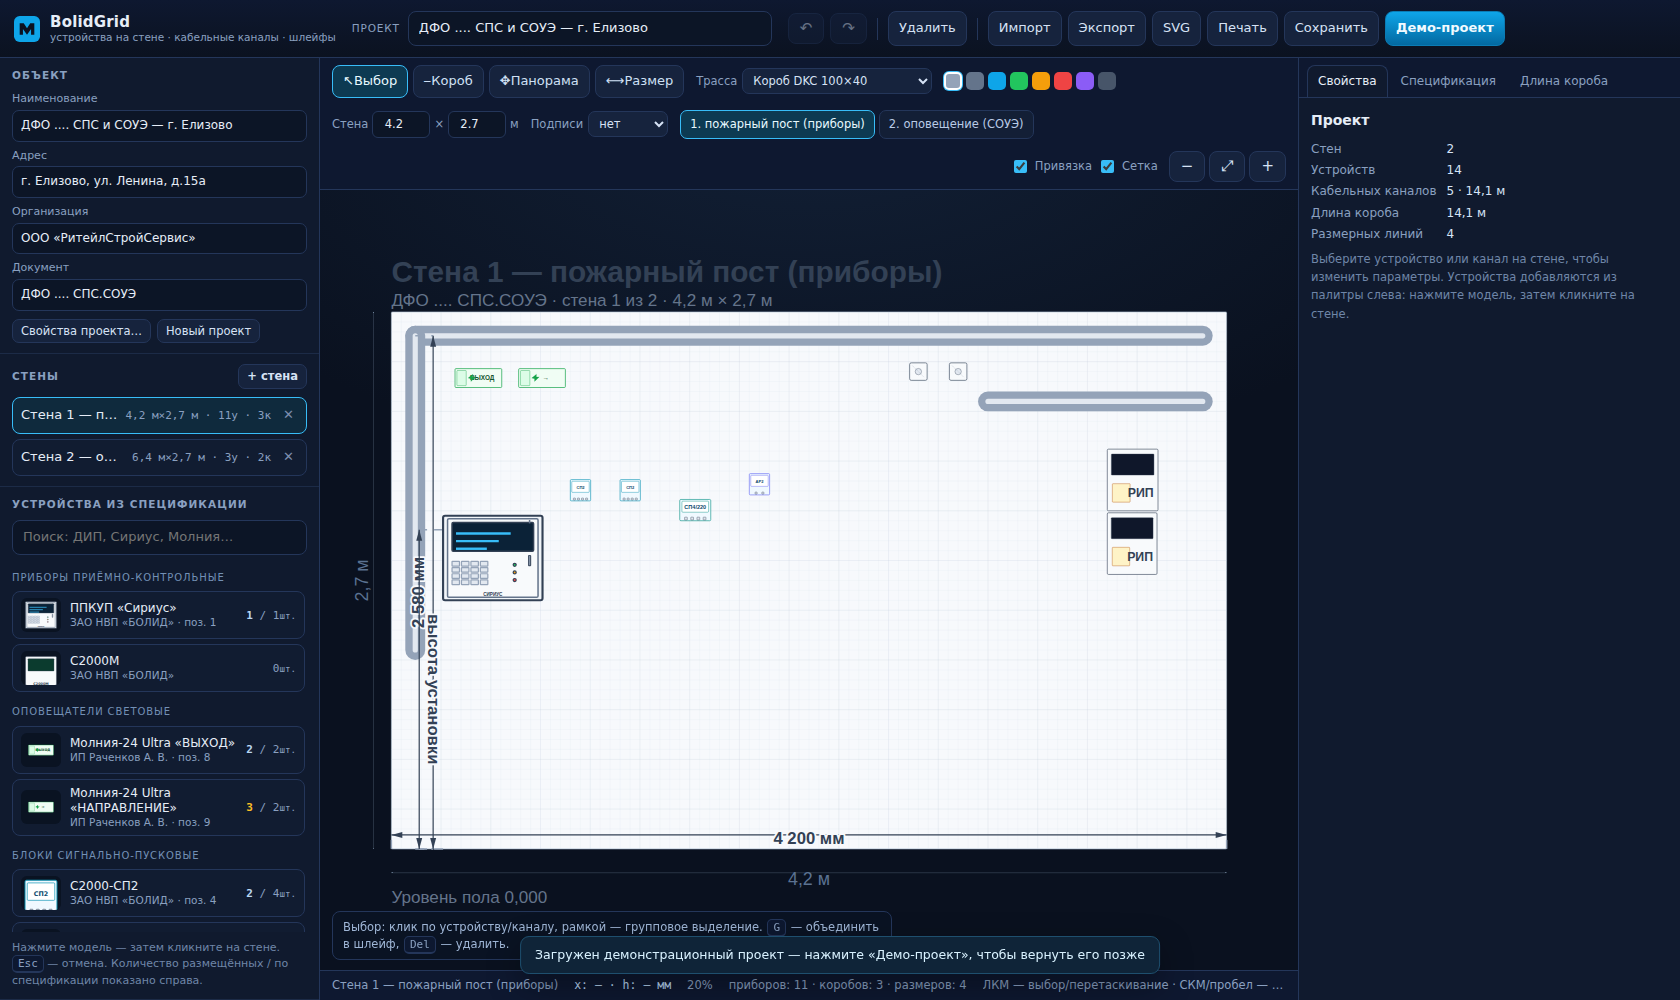
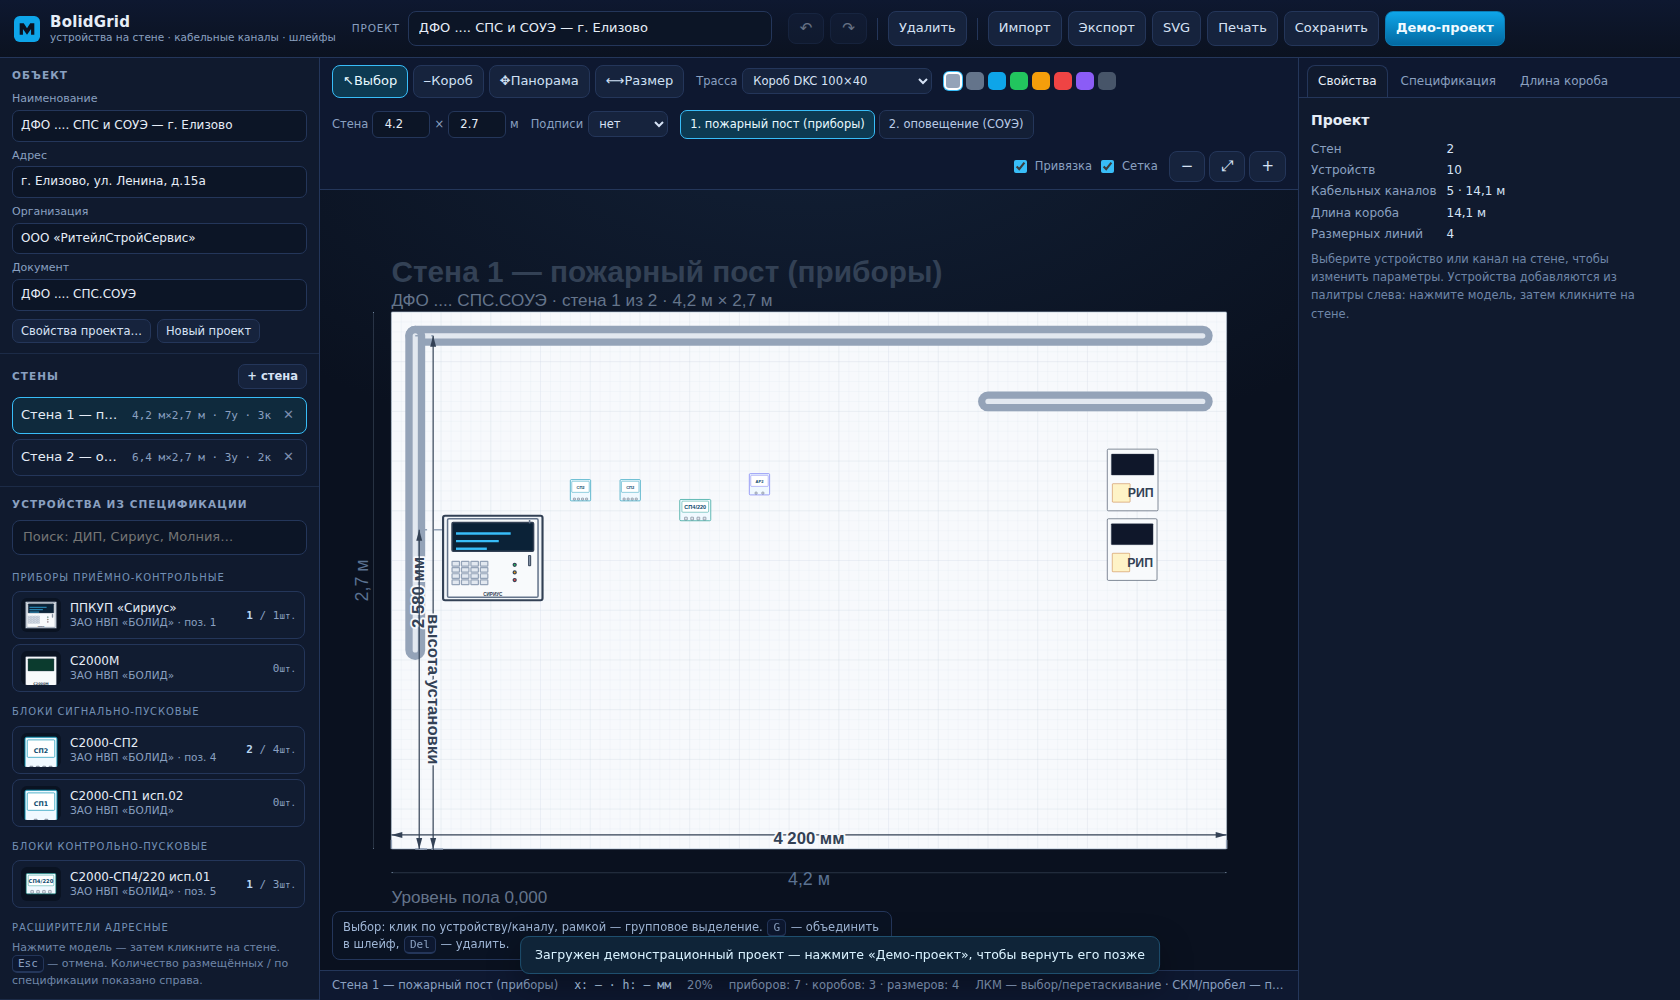
Из палитры убраны таблички «ВЫХОД»/«НАПРАВЛЕНИЕ» и КМ-О(2К)
- скрыты модели molnia_exit, molnia_dir, kmo2k (в каталоге и спецификации остаются)
- в палитре 12 приборов: Сириус, С2000-СП2/СП4/АР2, С2000-КДЛ/СП1/С2000М, РИП-12, БП,
  коммутатор, розетка, «прочее»
- демо обновлено: 10 приборов (7 на стене поста, 3 на второй стене), 5 коробов, 4 размера
- тесты: smoke 54/54, QA 166/166, mobile 108/108; документация и скриншоты обновлены

diff --git a/js/demo.js b/js/demo.js
@@ -35,25 +35,21 @@ export function buildDemoProject() {
 
   const devices = [];
 
-  /* ---------- стена 1: приборы и оповещатели ---------- */
+  /* ---------- стена 1: приборы и питание ---------- */
   const sirius = device('sirius', wallA.id, 260, 1250, '1.1', { address: 'ППКУП «Сириус»' });
-  const sp2_1 = device('sp2', wallA.id, 900, 1750, '1.2', { address: 'СП2 №1 — световое оповещение' });
-  const sp2_2 = device('sp2', wallA.id, 1150, 1750, '1.3', { address: 'СП2 №2 — звуковое оповещение' });
+  const sp2_1 = device('sp2', wallA.id, 900, 1750, '1.2', { address: 'СП2 №1' });
+  const sp2_2 = device('sp2', wallA.id, 1150, 1750, '1.3', { address: 'СП2 №2' });
   const sp4 = device('sp4_220', wallA.id, 1450, 1650, '1.4', { address: 'СП4/220 — клапаны' });
   const ar2 = device('ar2', wallA.id, 1800, 1780, '1.5', { address: 'АР2 исп.02' });
-  const kmo1 = device('kmo2k', wallA.id, 2600, 2350, '1.6', { note: 'огнестойкая коробка' });
-  const kmo2 = device('kmo2k', wallA.id, 2800, 2350, '1.7', { note: 'огнестойкая коробка' });
-  const exit1 = device('molnia_exit', wallA.id, 320, 2320, '1.8', { address: 'ВЫХОД' });
-  const dir1 = device('molnia_dir', wallA.id, 640, 2320, '1.9', { address: 'направление движения' });
-  const rip12 = device('rip12', wallA.id, 3600, 1700, '1.10', { address: 'РИП-12 исп.50' });
-  const bp12 = device('bp12', wallA.id, 3600, 1380, '1.11', { address: 'БП 12 В / 5 А' });
-  devices.push(sirius, sp2_1, sp2_2, sp4, ar2, kmo1, kmo2, exit1, dir1, rip12, bp12);
+  const rip12 = device('rip12', wallA.id, 3600, 1700, '1.6', { address: 'РИП-12 исп.50' });
+  const bp12 = device('bp12', wallA.id, 3600, 1350, '1.7', { address: 'БП 12 В / 5 А' });
+  devices.push(sirius, sp2_1, sp2_2, sp4, ar2, rip12, bp12);
 
-  /* ---------- стена 2: оповещение ---------- */
-  const exit2 = device('molnia_exit', wallB.id, 240, 2250, '2.1');
-  const dir2 = device('molnia_dir', wallB.id, 1400, 2250, '2.2', { address: 'направление движения' });
-  const dir3 = device('molnia_dir', wallB.id, 4900, 2250, '2.3', { address: 'направление движения' });
-  devices.push(exit2, dir2, dir3);
+  /* ---------- стена 2: контроллер и прочее оборудование ---------- */
+  const kdl = device('kdl', wallB.id, 600, 1800, '2.1', { address: 'С2000-КДЛ' });
+  const sw = device('switch', wallB.id, 1000, 1800, '2.2', { address: 'коммутатор' });
+  const socket = device('socket', wallB.id, 1500, 2000, '2.3', { address: 'розетка 220 В' });
+  devices.push(kdl, sw, socket);
 
   /* ---------- кабельные трассы: короба DKC 100×40 (ширина 100 мм) ---------- */
   const channels = [

diff --git a/js/catalog.js b/js/catalog.js
@@ -227,13 +227,13 @@ export const MODELS = [
     vendor: 'ЗАО НВП «БОЛИД»',
   }),
   M({
-    id: 'molnia_exit', specPos: 8, kind: 'opoveshchatel_svet', symbol: 'molnia', tagText: 'ВЫХОД', w: 235, h: 95,
+    id: 'molnia_exit', specPos: 8, kind: 'opoveshchatel_svet', symbol: 'molnia', tagText: 'ВЫХОД', w: 235, h: 95, hidden: true,
     name: 'Молния-24 Ultra «ВЫХОД»', model: 'Молния-24 Ultra',
     full: 'Оповещатель охранно-пожарный световой «ВЫХОД» Молния-24 Ultra',
     vendor: 'ИП Раченков А. В.',
   }),
   M({
-    id: 'molnia_dir', specPos: 9, kind: 'opoveshchatel_svet', symbol: 'molnia', tagText: '→', w: 235, h: 95,
+    id: 'molnia_dir', specPos: 9, kind: 'opoveshchatel_svet', symbol: 'molnia', tagText: '→', w: 235, h: 95, hidden: true,
     name: 'Молния-24 Ultra «НАПРАВЛЕНИЕ»', model: 'Молния-24 Ultra',
     full: 'Оповещатель охранно-пожарный световой «НАПРАВЛЕНИЕ ДВИЖЕНИЯ» Молния-24 Ultra',
     vendor: 'ИП Раченков А. В.',
@@ -245,7 +245,7 @@ export const MODELS = [
     vendor: 'ЗАО НВП «БОЛИД»',
   }),
   M({
-    id: 'kmo2k', specPos: 11, kind: 'korobka', symbol: 'korobka', w: 100, h: 100,
+    id: 'kmo2k', specPos: 11, kind: 'korobka', symbol: 'korobka', w: 100, h: 100, hidden: true,
     name: 'КМ-О(2К) исп.1', model: 'КМ-О(2К) исп.1',
     full: 'Коробка монтажная огнестойкая КМ-О(2К) исп.1',
     vendor: 'ЛТ «ГЕФЕСТ»',

diff --git a/README.md b/README.md
@@ -23,11 +23,11 @@
 - Миллиметровая сетка, привязка, панорама и масштаб, реальные габариты устройств.
 
 **Устройства из спецификации**
-- Приборы и оповещатели из спецификации проекта (ППКУП «Сириус», С2000-СП2, С2000-СП4/220,
-  С2000-АР2, «Молния-24 Ultra», КМ-О(2К)) **и** дополнительные устройства
-  БОЛИД (С2000-КДЛ, С2000-СП1, С2000М, РИП-12, блок питания) и «прочее».
-  АКБ, МПН и Маяк-24-3М убраны из палитры (в спецификации остаются, в старых проектах
-  продолжают отображаться — их можно удалить).
+- Приборы из спецификации проекта (ППКУП «Сириус», С2000-СП2, С2000-СП4/220, С2000-АР2)
+  **и** дополнительные устройства БОЛИД (С2000-КДЛ, С2000-СП1, С2000М, РИП-12, блок питания)
+  плюс «прочее» (коммутатор, розетка, произвольное устройство).
+  По запросу из палитры убраны АКБ, МПН, Маяк-24-3М, таблички «ВЫХОД»/«НАПРАВЛЕНИЕ ДВИЖЕНИЯ»
+  и КМ-О(2К) — в каталоге и спецификации они остаются, в старых проектах отображаются.
 - **Габариты приборов — по ТД производителя**, лист в миллиметрах: приборы и короба рисуются в масштабе.
   Например, ППКУП «Сириус» — 500×425 мм, С2000-СП2 — 102×107 мм, С2000-СП4/220 — 156×107 мм,
   РИП-12 исп.50 — 255×310 мм, АКБ Delta HRL 12-18 — 181×167 мм.
